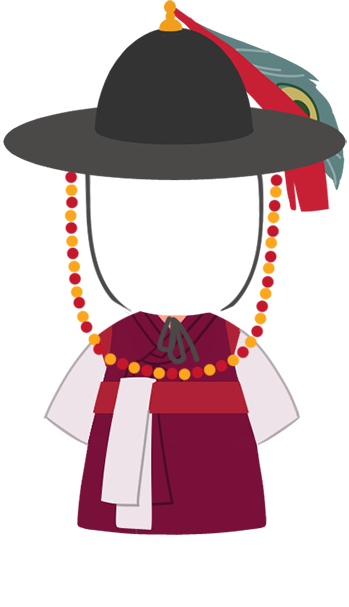
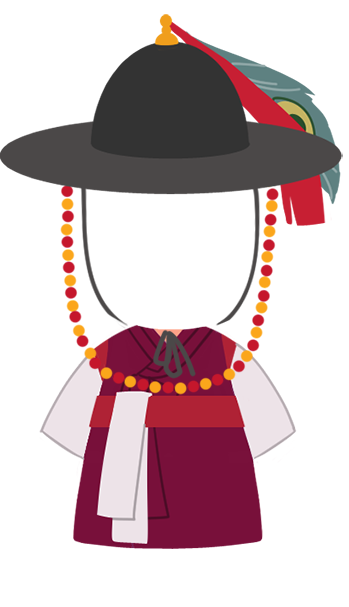
수정

Changed region(s): [[0.0, 0.0, 1.0, 0.9193], [0.4011, 0.2372, 0.6017, 0.2669], [0.2865, 0.1186, 0.3152, 0.1483]]

diff --git a/daechwita/select_02.html b/daechwita/select_02.html
@@ -29,7 +29,7 @@
                 <a href="index.html" class="btn-top btn-home btn-effect">
                     <span class="sr-only">홈으로</span>
                 </a>
-                <div class="select-02 bg pointer-none">
+                <div class="select-02 bg">
                     <div class="character">
                         <div class="txt-wrap">
                             <div class="txt-box"></div>
@@ -48,8 +48,8 @@
                                 </div>
 
                                 <div class="cl cl_03">
-                                    <div class="cl_effect" data-name="heughye"></div>
-                                    <img src="img/content_02/lg_heughye.png" />
+                                    <div class="cl_effect" data-name="heughye" ></div>
+                                    <img src="img/content_02/lg_heughye.png" style="margin-top: 4%;"/>
                                 </div>
                             </div>
                             <div class="boy clothes-drop" data-target="2">

diff --git a/knowing_sounds/js/pages.js b/knowing_sounds/js/pages.js
@@ -330,7 +330,7 @@ $(function () {
     // 재생 중인 오디오 객체를 저장할 변수
     let currentMissionAudio = null;
     let nextAudio = null;
-    let secondAudio = new Audio('./sound/narration/yu2_na_6.mp3');
+    let secondAudio = new Audio('./sound/narration/yu2_na_29.mp3');
     const names = ['daegeum', 'piri', 'sogeum', 'saenghwang'];
     let currentIndex = 1;
 

diff --git a/daechwita/css/contents.css b/daechwita/css/contents.css
@@ -544,10 +544,12 @@ div[data-name="dragon"]{
 
 .select-02 .character .girl .cl_01{
     z-index: 5;
+    background-position-y: bottom;
 }
 
 .select-02 .character .girl .cl_02{
     z-index: 6;
+    background-position-y: bottom;
 }
 
 .select-02 .character .girl .cl_03{
